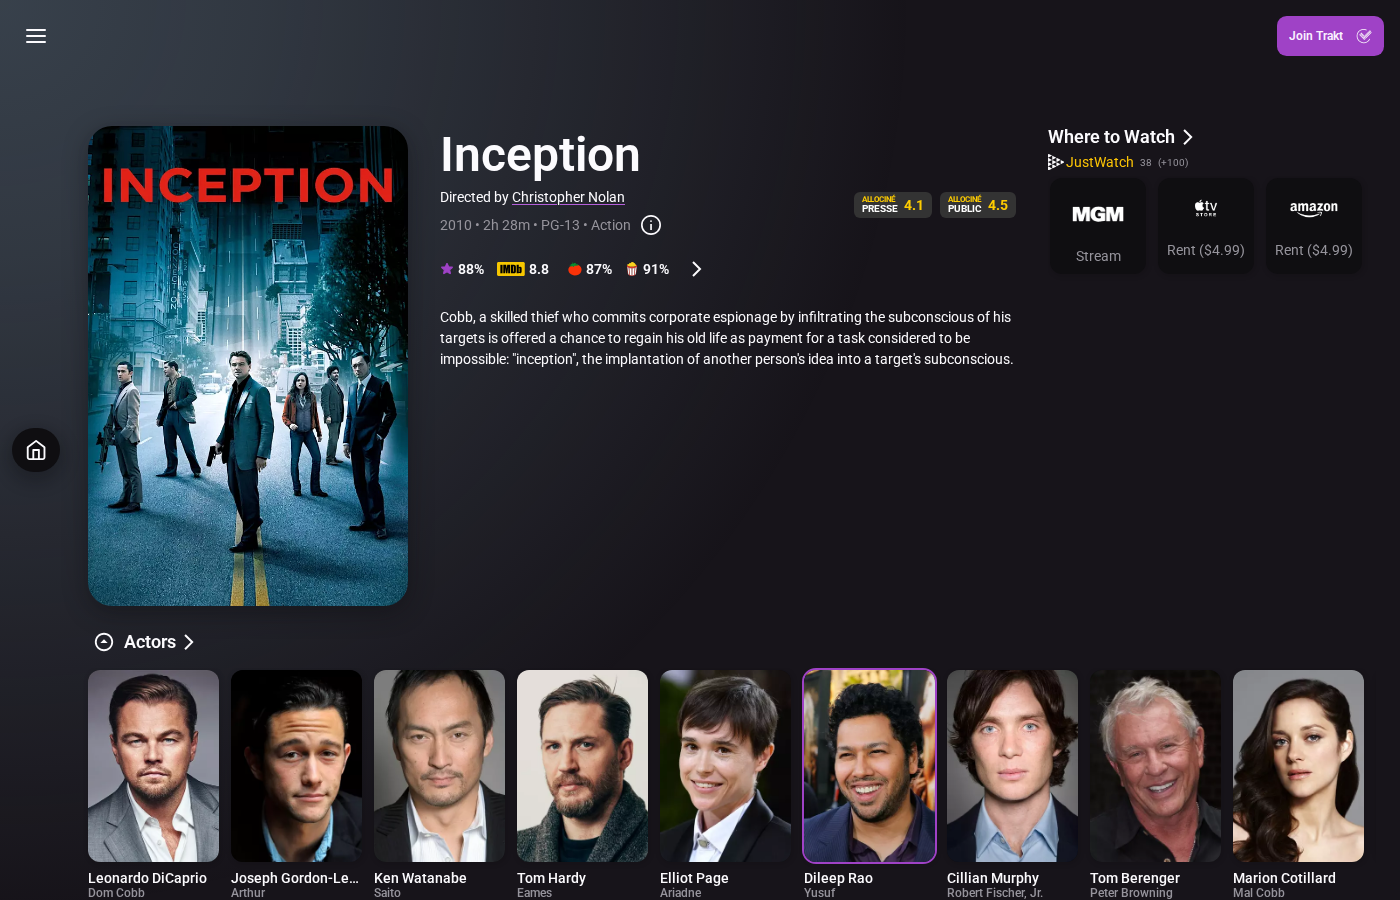
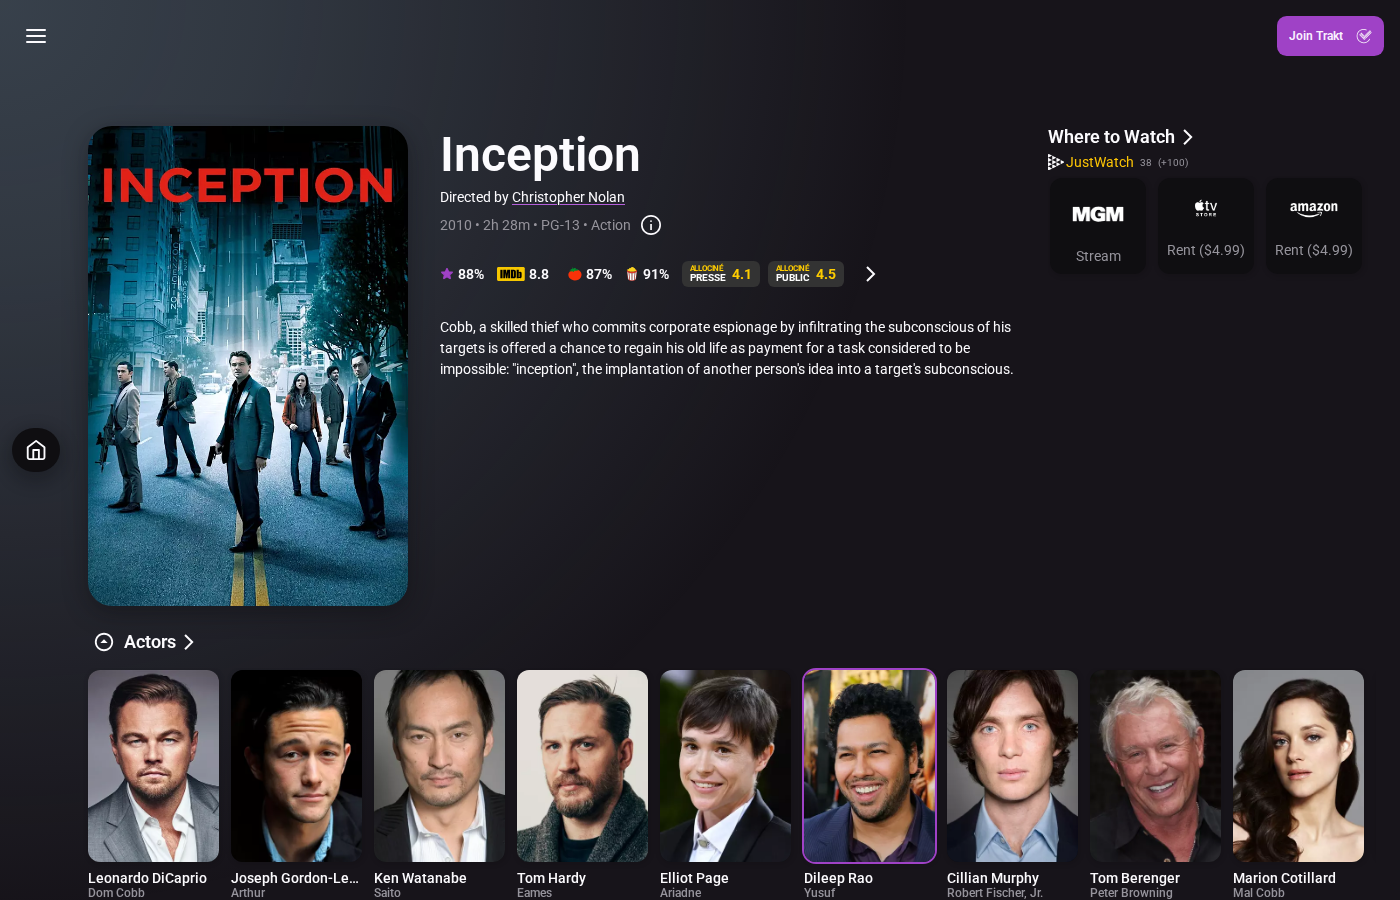
feat: Move AlloCiné badge inside the Trakt ratings row before drilldown arrow
Modified `getTargetElement()` in `badge.ts` to target the `.trakt-summary-ratings` row instead of its parent. Added `injectIntoTarget` to `UIBadge` to insert the badge directly before the `.trakt-ratings-drilldown-button` inside the ratings row, achieving the desired layout next to the Trakt ratings.

Changed region(s): [[0.3071, 0.28, 0.7371, 0.4356], [0.6143, 0.1867, 0.7371, 0.2489]]

diff --git a/src/ui/badge.ts b/src/ui/badge.ts
@@ -13,10 +13,10 @@ export class UIBadge {
     const actionButtons = document.querySelector('.action-buttons, .media-actions, .trakt-summary-actions-bar, .actions-bar');
     if (actionButtons) return actionButtons as HTMLElement;
 
-    // 2. Try ratings summary parent wrapper
+    // 2. Try ratings summary parent wrapper (or the row itself)
     const summaryRatings = document.querySelector('.trakt-summary-ratings, [class*="trakt-summary-ratings"]');
-    if (summaryRatings && summaryRatings.parentElement) {
-      return summaryRatings.parentElement as HTMLElement;
+    if (summaryRatings) {
+      return summaryRatings as HTMLElement;
     }
 
     // 3. Fallback: sidebar stats or sidebar
@@ -30,6 +30,23 @@ export class UIBadge {
     }
 
     return null;
+  }
+
+  /**
+   * Helper to safely inject the container into the target.
+   * Special case for the .trakt-summary-ratings row to insert before the drilldown arrow.
+   */
+  private static injectIntoTarget(target: HTMLElement, container: HTMLElement): void {
+    if (target.classList.contains('trakt-summary-ratings') || target.className.includes('trakt-summary-ratings')) {
+      const drilldownButton = target.querySelector('.trakt-tooltip-trigger, .trakt-ratings-drilldown-button, [data-tooltip-trigger]');
+      if (drilldownButton) {
+        target.insertBefore(container, drilldownButton);
+      } else {
+        target.appendChild(container);
+      }
+    } else {
+      target.insertAdjacentElement('afterend', container);
+    }
   }
 
   /**
@@ -65,7 +82,7 @@ export class UIBadge {
       </div>
     `;
 
-    target.insertAdjacentElement('afterend', container);
+    this.injectIntoTarget(target, container);
   }
 
   /**
@@ -89,7 +106,7 @@ export class UIBadge {
           </div>
         </div>
       `;
-      target.insertAdjacentElement('afterend', container);
+      this.injectIntoTarget(target, container);
       return;
     }
 
@@ -128,6 +145,6 @@ export class UIBadge {
     }
 
     container.innerHTML = html;
-    target.insertAdjacentElement('afterend', container);
+    this.injectIntoTarget(target, container);
   }
 }
